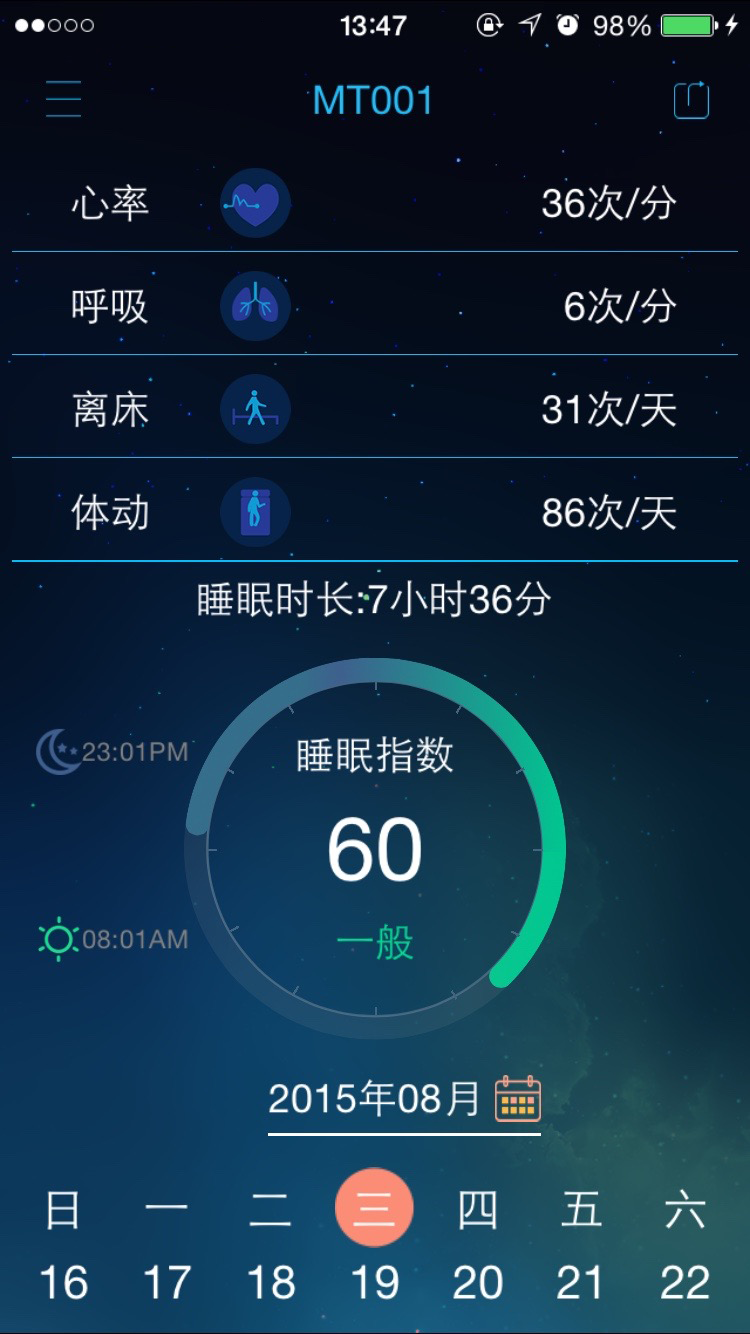
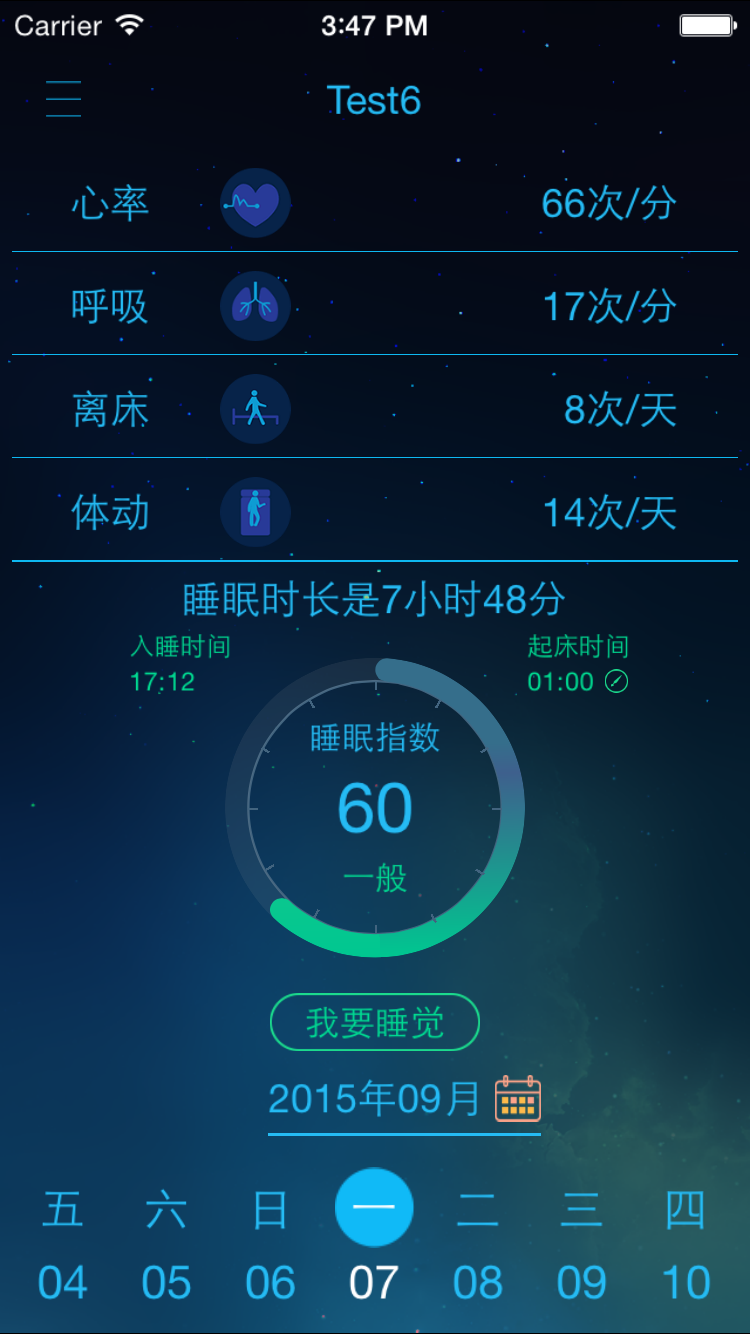
build master 9.7换肤ok

diff --git a/lib/Source/CenterViewController.m b/lib/Source/CenterViewController.m
@@ -10,6 +10,8 @@
 #import "CalenderCantainerViewController.h"
 #import "CenterViewTableViewCell.h"
 //#import "UITableView+Wave.h"
+#import "MMTwoListPickerView.h"
+#import "MMPickerView.h"
 #import "CHCircleGaugeView.h"
 #import "NightTimeView.h"
 #import "DayTimeView.h"
@@ -328,6 +330,9 @@
         [self.circleView addSubview:self.endView];
         self.endView.endTime = [sleepEndTime substringWithRange:NSMakeRange(11, 5)];
         self.endView.center = CGPointMake(self.view.frame.size.width-60, 5);
+        self.endView.userInteractionEnabled = YES;
+        UITapGestureRecognizer *tap = [[UITapGestureRecognizer alloc]initWithTarget:self action:@selector(showEndTimePicker)];
+        [self.endView addGestureRecognizer:tap];
     }else
     {
         [self.endView removeFromSuperview];
@@ -532,7 +537,7 @@
 
         _iWantSleepLabel.frame = CGRectMake((self.view.frame.size.width-90)/2, self.view.frame.size.height -datePickerHeight-30, 90,25);
         [_iWantSleepLabel setTitle:@"我要睡觉" forState:UIControlStateNormal];
-        [_iWantSleepLabel setBackgroundImage:[UIImage imageNamed:@"btn_textbox_0"] forState:UIControlStateNormal];
+        [_iWantSleepLabel setBackgroundImage:[UIImage imageNamed:[NSString stringWithFormat:@"btn_textbox_%d",selectedThemeIndex]] forState:UIControlStateNormal];
         [_iWantSleepLabel setTitleColor:selectedThemeIndex==0?[UIColor colorWithRed:0.000f green:0.859f blue:0.573f alpha:1.00f]:[UIColor whiteColor] forState:UIControlStateNormal];
         [_iWantSleepLabel.titleLabel setFont:[UIFont systemFontOfSize:15]];
         [_iWantSleepLabel addTarget:self action:@selector(sendSleepTime) forControlEvents:UIControlEventTouchUpInside];
@@ -693,6 +698,47 @@
 
 #pragma mark 其他方法
 
+- (void)showEndTimePicker
+{
+    NSMutableArray *hour1 = [[NSMutableArray alloc]init];
+    NSMutableArray *minute1 = [[NSMutableArray alloc]init];
+    for (int i=0; i<60; i++) {
+        if (i<10) {
+            [minute1 addObject:[NSString stringWithFormat:@"0%d分",i]];
+        }else{
+            [minute1 addObject:[NSString stringWithFormat:@"%d分",i]];
+        }
+    }
+    for (int i=0; i<24; i++) {
+        if (i<10) {
+            [hour1 addObject:[NSString stringWithFormat:@"0%d点",i]];
+        }else{
+            [hour1 addObject:[NSString stringWithFormat:@"%d点",i]];
+        }
+    }
+    
+    [MMTwoListPickerView showPickerViewInView:self.view
+                                  withStrings:@[hour1,minute1]
+                                  withOptions:@{MMbackgroundColor: [UIColor whiteColor],
+                                                MMtextColor: [UIColor blackColor],
+                                                MMtoolbarColor: [UIColor whiteColor],
+                                                MMbuttonColor: [UIColor blueColor],
+                                                MMfont: [UIFont systemFontOfSize:35],
+                                                MMvalueY: @3,
+                                                MMselectedObject:@"li",
+                                                MMtextAlignment:@1}
+                                   completion:^(NSString *selectedString) {
+                                       if ([selectedString isEqualToString:@"cancel"]) {
+                                       }else{
+                                           NSString *titleString = [NSString stringWithFormat:@"%@:%@",[selectedString substringWithRange:NSMakeRange(0, 2)],[selectedString substringWithRange:NSMakeRange(3, 2)]];
+                                           self.endView.endTime = titleString;
+                                           [self sendSleepEndTime:titleString];
+                                       }
+                                   }];
+    
+}
+
+
 - (void)showTagView:(UITapGestureRecognizer *)gesture
 {
     NSDate *nowDate = [NSDate date];
@@ -774,6 +820,16 @@
 
 - (void)getScrollSelectedDate:(NSDate *)date
 {
+    NSString *dateString =[NSString stringWithFormat:@"%@",[[NSDate date] dateByAddingHours:8]];
+    NSString *slectDateString = [NSString stringWithFormat:@"%@",date];
+    if (![[dateString substringWithRange:NSMakeRange(5, 5)]isEqualToString:[slectDateString substringWithRange:NSMakeRange(5, 5)]]) {
+        [self.iWantSleepLabel removeFromSuperview];
+//        self.circleView = nil;
+//        self.circleView.frame = CGRectMake(0, 64 + 4*44 +30 + 10, self.view.frame.size.width, self.view.frame.size.height - (64 + 4*44 +30 + 10)-datePickerHeight-10);
+    }else {
+//        self.circleView.frame = CGRectMake(0, 64 + 4*44 +30 + 10, self.view.frame.size.width, self.view.frame.size.height - (64 + 4*44 +30 + 10)-datePickerHeight-10-35);
+        [self.view addSubview:self.iWantSleepLabel];
+    }
     if (date) {
         if ([[[NSDate date] dateByAddingHours:8]isEarlierThan:date]) {
             [self.datePicker updateCalenderSelectedDate:[[NSDate date] dateByAddingHours:8]];
@@ -785,10 +841,6 @@
             NSString *dateString = [formatter stringFromDate:date];
             HaviLog(@"当前选中的日期是%@",dateString);
             NSString *subString = [NSString stringWithFormat:@"%@%@%@",[dateString substringWithRange:NSMakeRange(0, 4)],[dateString substringWithRange:NSMakeRange(5, 2)],[dateString substringWithRange:NSMakeRange(8, 2)]];
-//            if (isUserDefaultTime) {
-//                [self getUserDefatultSleepReportData:subString toDate:subString];
-//            }else{
-//            }
             [self getTodaySleepQualityData:subString];
         }
     }
@@ -956,6 +1008,8 @@
     [_circleView.cView.gradientLayer1 setColors:selectedThemeIndex ==0?[NSArray arrayWithObjects:(id)[[self colorWithHex:0x356E8B alpha:1]CGColor],[[self colorWithHex:0x3e608d alpha:1]CGColor ],(id)[[self colorWithHex:0x00C790 alpha:1]CGColor ],nil]:[NSArray arrayWithObjects:(id)[[self colorWithHex:0x1C7A59 alpha:1]CGColor],[[self colorWithHex:0x0F705C alpha:1]CGColor ],(id)[[self colorWithHex:0x51AD4A alpha:1]CGColor ],nil]];
     [_circleView.cView.gradientLayer2 setColors:selectedThemeIndex==0?[NSArray arrayWithObjects:(id)[[self colorWithHex:0x1cd98d alpha:1]CGColor],(id)[[self colorWithHex:0x21c88d alpha:1]CGColor ],(id)[[self colorWithHex:0x00C790 alpha:1]CGColor ],nil]:[NSArray arrayWithObjects:(id)[[self colorWithHex:0x8DEC45 alpha:1]CGColor],(id)[[self colorWithHex:0x85E445 alpha:1]CGColor ],(id)[[self colorWithHex:0x51AD4A alpha:1]CGColor ],nil]];
     self.sleepTimeLabel.textColor = selectedThemeIndex==0?DefaultColor:[UIColor whiteColor];
+    [_iWantSleepLabel setBackgroundImage:[UIImage imageNamed:[NSString stringWithFormat:@"btn_textbox_%d",selectedThemeIndex]] forState:UIControlStateNormal];
+    [_iWantSleepLabel setTitleColor:selectedThemeIndex==0?[UIColor colorWithRed:0.000f green:0.859f blue:0.573f alpha:1.00f]:[UIColor whiteColor] forState:UIControlStateNormal];
     
     _sendBreathView = nil;
     _sendHeardView = nil;
@@ -1024,7 +1078,7 @@
             if ([[resposeDic objectForKey:@"ReturnCode"]intValue]==200) {
                 [MMProgressHUD dismiss];
                 [[MMProgressHUD sharedHUD]setDismissAnimationCompletion:^{
-                    [self.view makeToast:@"ok" duration:2 position:@"center"];
+                    [self.view makeToast:@"做个好梦喽" duration:3 position:@"center"];
                 }];
             }else{
                 HaviLog(@"%@",resposeDic);
@@ -1036,6 +1090,55 @@
     }else{
         [self.view makeToast:@"请先绑定设备ID" duration:2 position:@"center"];
     }
+}
+
+- (void)sendSleepEndTime:(NSString *)endString
+{
+    if (HardWareUUID.length>0) {
+        
+        [MMProgressHUD setPresentationStyle:MMProgressHUDPresentationStyleExpand];
+        [MMProgressHUD showWithStatus:@"保存中..."];
+        NSString *dateString = [NSString stringWithFormat:@"%@",selectedDateToUse];
+        NSString *date = [NSString stringWithFormat:@"%@ %@:00",[dateString substringToIndex:11],endString];
+        NSDictionary *dic = @{
+                              @"UUID" : HardWareUUID,
+                              @"UserID" : thirdPartyLoginUserId,
+                              @"Tags" : @{
+                                      @"Tag": @"<%睡眠时间记录%>",
+                                      @"TagType": @"1",
+                                      @"UserTagDate": date,
+                                      },
+                              };
+        NSDictionary *header = @{
+                                 @"AccessToken":@"123456789"
+                                 };
+        UploadTagAPI *client = [UploadTagAPI shareInstance];
+        if ([client isExecuting]) {
+            [client stop];
+        }
+        [MMProgressHUD dismiss];
+        
+        [client uploadTagWithHeader:header andWithPara:dic];
+        [client startWithCompletionBlockWithSuccess:^(YTKBaseRequest *request) {
+            NSDictionary *resposeDic = (NSDictionary *)request.responseJSONObject;
+            if ([[resposeDic objectForKey:@"ReturnCode"]intValue]==200) {
+                [MMProgressHUD dismiss];
+                [[MMProgressHUD sharedHUD]setDismissAnimationCompletion:^{
+//                    [self.view makeToast:@"做个好梦喽" duration:3 position:@"center"];
+                    NSString *subString = [NSString stringWithFormat:@"%@%@%@",[dateString substringWithRange:NSMakeRange(0, 4)],[dateString substringWithRange:NSMakeRange(5, 2)],[dateString substringWithRange:NSMakeRange(8, 2)]];
+                    [self getTodaySleepQualityData:subString];
+                }];
+            }else{
+                HaviLog(@"%@",resposeDic);
+                [MMProgressHUD dismissWithError:@"出错啦" afterDelay:1];
+            }
+        } failure:^(YTKBaseRequest *request) {
+            
+        }];
+    }else{
+        [self.view makeToast:@"请先绑定设备ID" duration:2 position:@"center"];
+    }
+
 }
 
 - (void)didReceiveMemoryWarning {

diff --git a/lib/Source/SleepSettingViewController.m b/lib/Source/SleepSettingViewController.m
@@ -514,8 +514,8 @@
                                            NSString *titleString = [NSString stringWithFormat:@"%@:%@",[selectedString substringWithRange:NSMakeRange(0, 2)],[selectedString substringWithRange:NSMakeRange(3, 2)]];
                                            [_startTimeLabel setTitle:titleString forState:UIControlStateNormal];
                                            isUserDefaultTime = YES;
-                                           //                                    [[NSUserDefaults standardUserDefaults]setObject:selectedString forKey:UserDefaultStartTime];
-                                           //                                    [[NSUserDefaults standardUserDefaults]synchronize];
+                                                                               [[NSUserDefaults standardUserDefaults]setObject:titleString forKey:UserDefaultStartTime];
+                                                                               [[NSUserDefaults standardUserDefaults]synchronize];
                                            [self sendUserDefaultSleepTime];
                                            sender.titleLabel.text = selectedString;
                                            _selectString1 = selectedString;
@@ -613,8 +613,8 @@
                                            NSString *titleString = [NSString stringWithFormat:@"%@:%@",[selectedString substringWithRange:NSMakeRange(0, 2)],[selectedString substringWithRange:NSMakeRange(3, 2)]];
                                            [_endTimeLabel setTitle:titleString forState:UIControlStateNormal];
                                            isUserDefaultTime = YES;
-                                           //                                    [[NSUserDefaults standardUserDefaults]setObject:selectedString forKey:UserDefaultStartTime];
-                                           //                                    [[NSUserDefaults standardUserDefaults]synchronize];
+                                                                               [[NSUserDefaults standardUserDefaults]setObject:titleString forKey:UserDefaultStartTime];
+                                                                               [[NSUserDefaults standardUserDefaults]synchronize];
                                            [self sendUserDefaultEndSleepTime];
                                            sender.titleLabel.text = selectedString;
                                            _selectString1 = selectedString;

diff --git a/EndTimeView.m b/EndTimeView.m
@@ -60,7 +60,9 @@
 - (void)setEndTime:(NSString *)endTime
 {
     endDataLabel.text = endTime;
+    endTitleLabel.textColor = selectedThemeIndex==0?[UIColor colorWithRed:0.000f green:0.859f blue:0.573f alpha:1.00f]:[UIColor whiteColor];
     endDataLabel.textColor = selectedThemeIndex==0?[UIColor colorWithRed:0.000f green:0.859f blue:0.573f alpha:1.00f]:[UIColor whiteColor];
+    imageView.image = [UIImage imageNamed:[NSString stringWithFormat: @"ic_compile_%d",selectedThemeIndex]];
 }
 
 /*

diff --git a/StartTimeView.m b/StartTimeView.m
@@ -46,6 +46,7 @@
 - (void)setStartTime:(NSString *)startTime
 {
     statrtDataLabel.text = startTime;
+    startTitleLabel.textColor = selectedThemeIndex==0?[UIColor colorWithRed:0.000f green:0.859f blue:0.573f alpha:1.00f]:[UIColor whiteColor];
     statrtDataLabel.textColor = selectedThemeIndex==0?[UIColor colorWithRed:0.000f green:0.859f blue:0.573f alpha:1.00f]:[UIColor whiteColor];
 }
 
